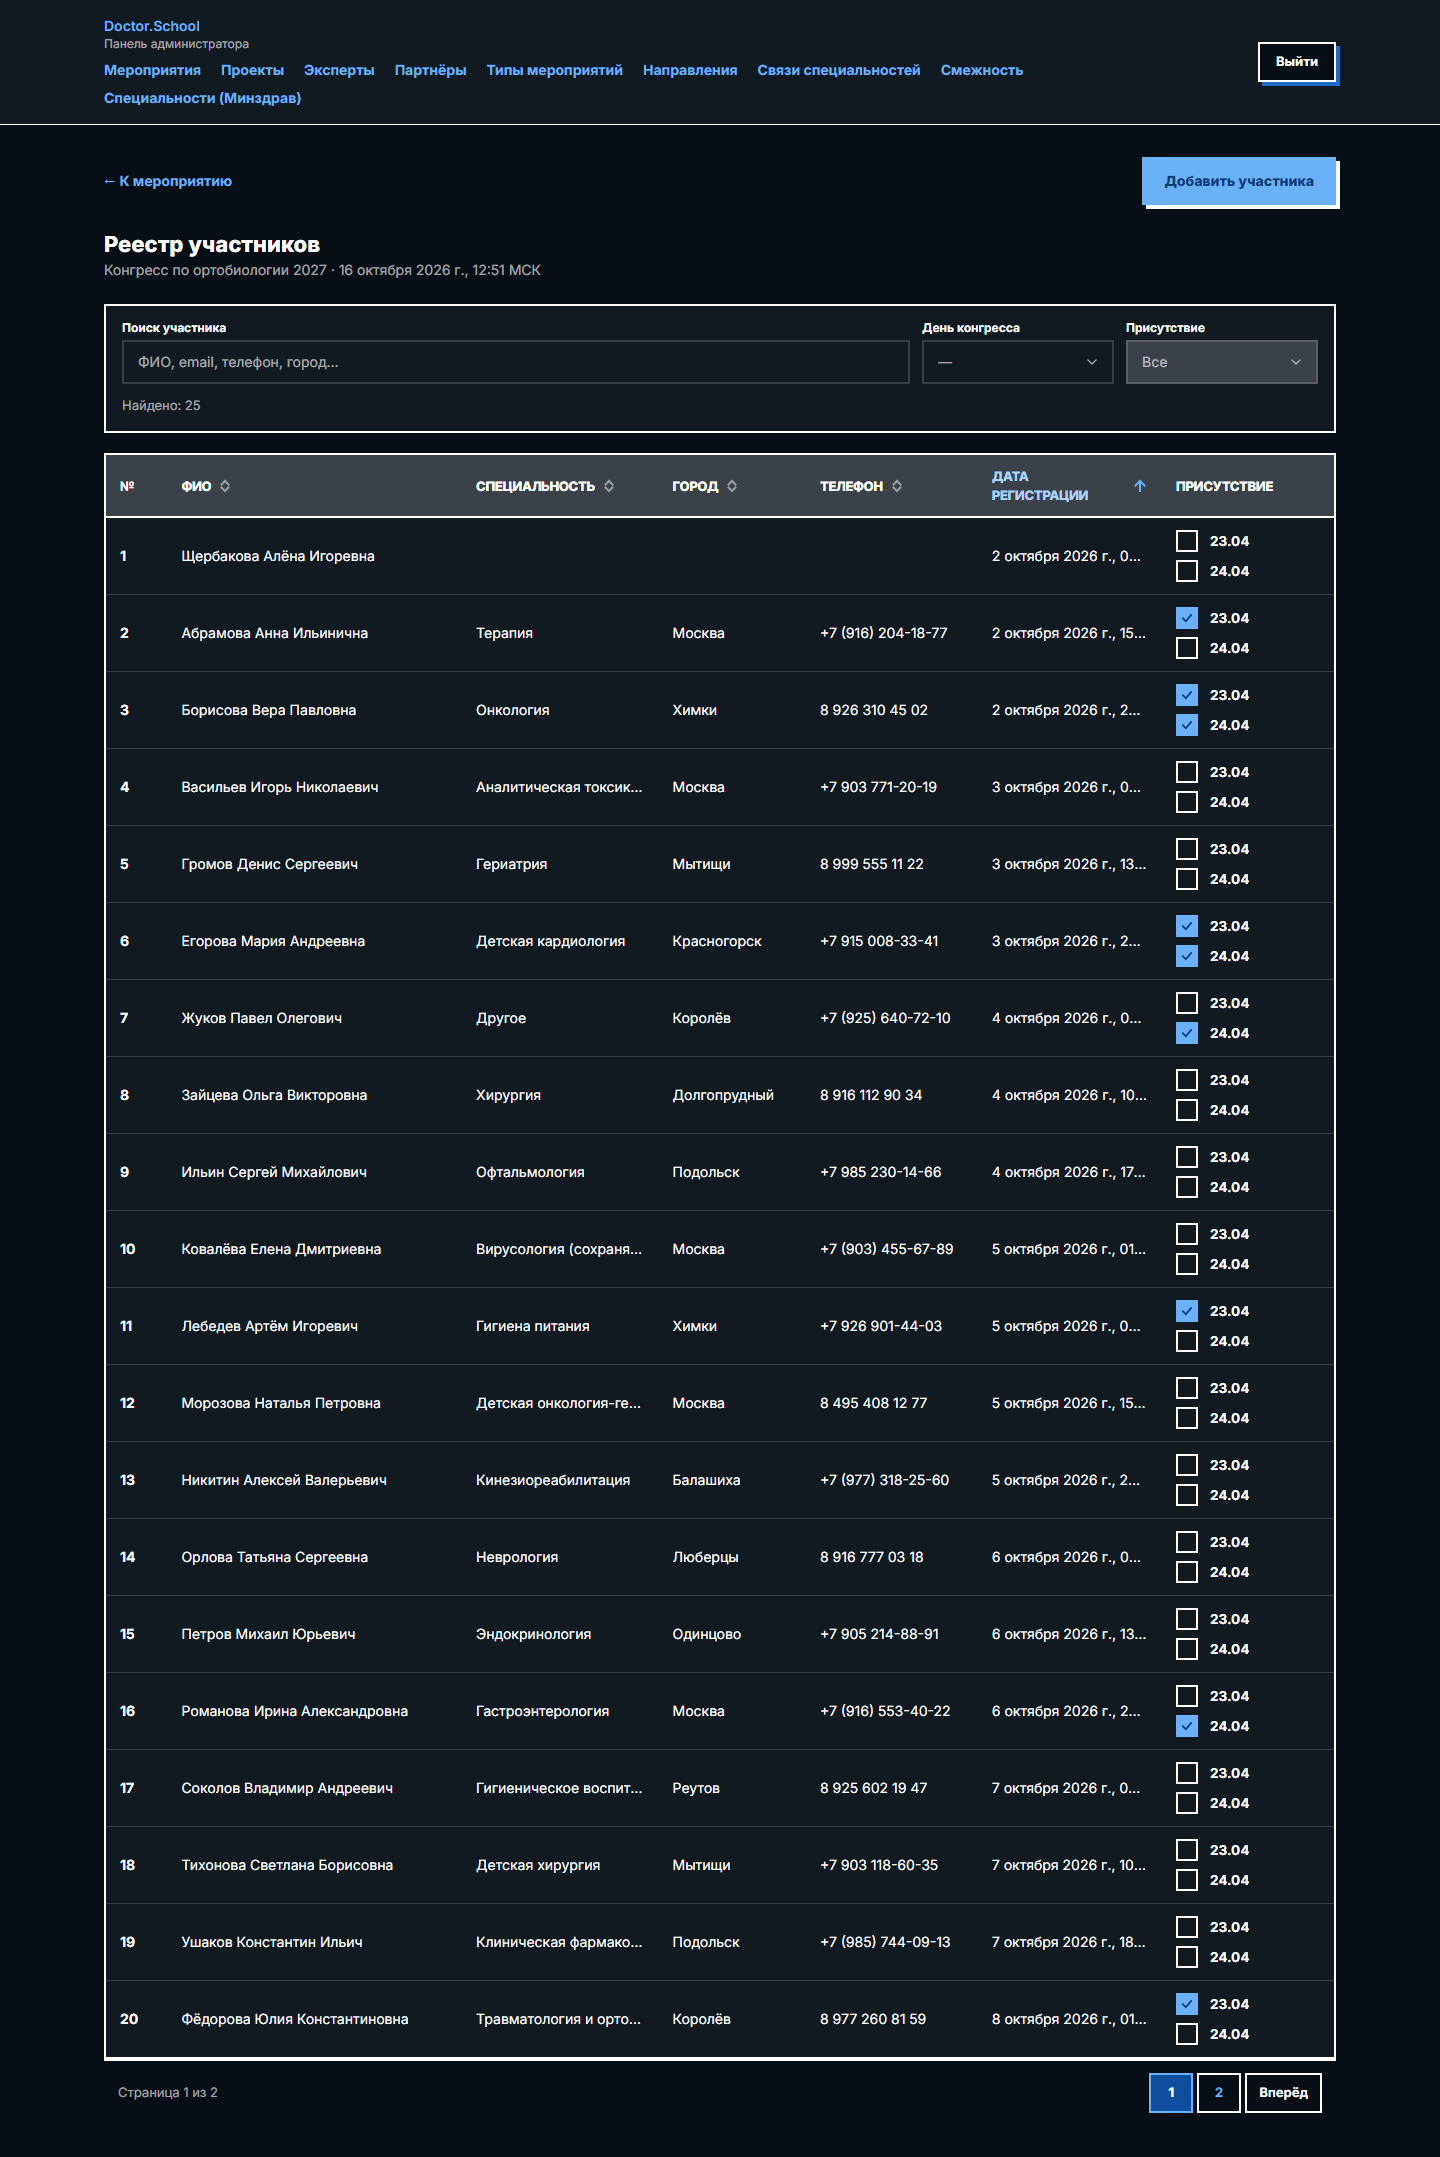
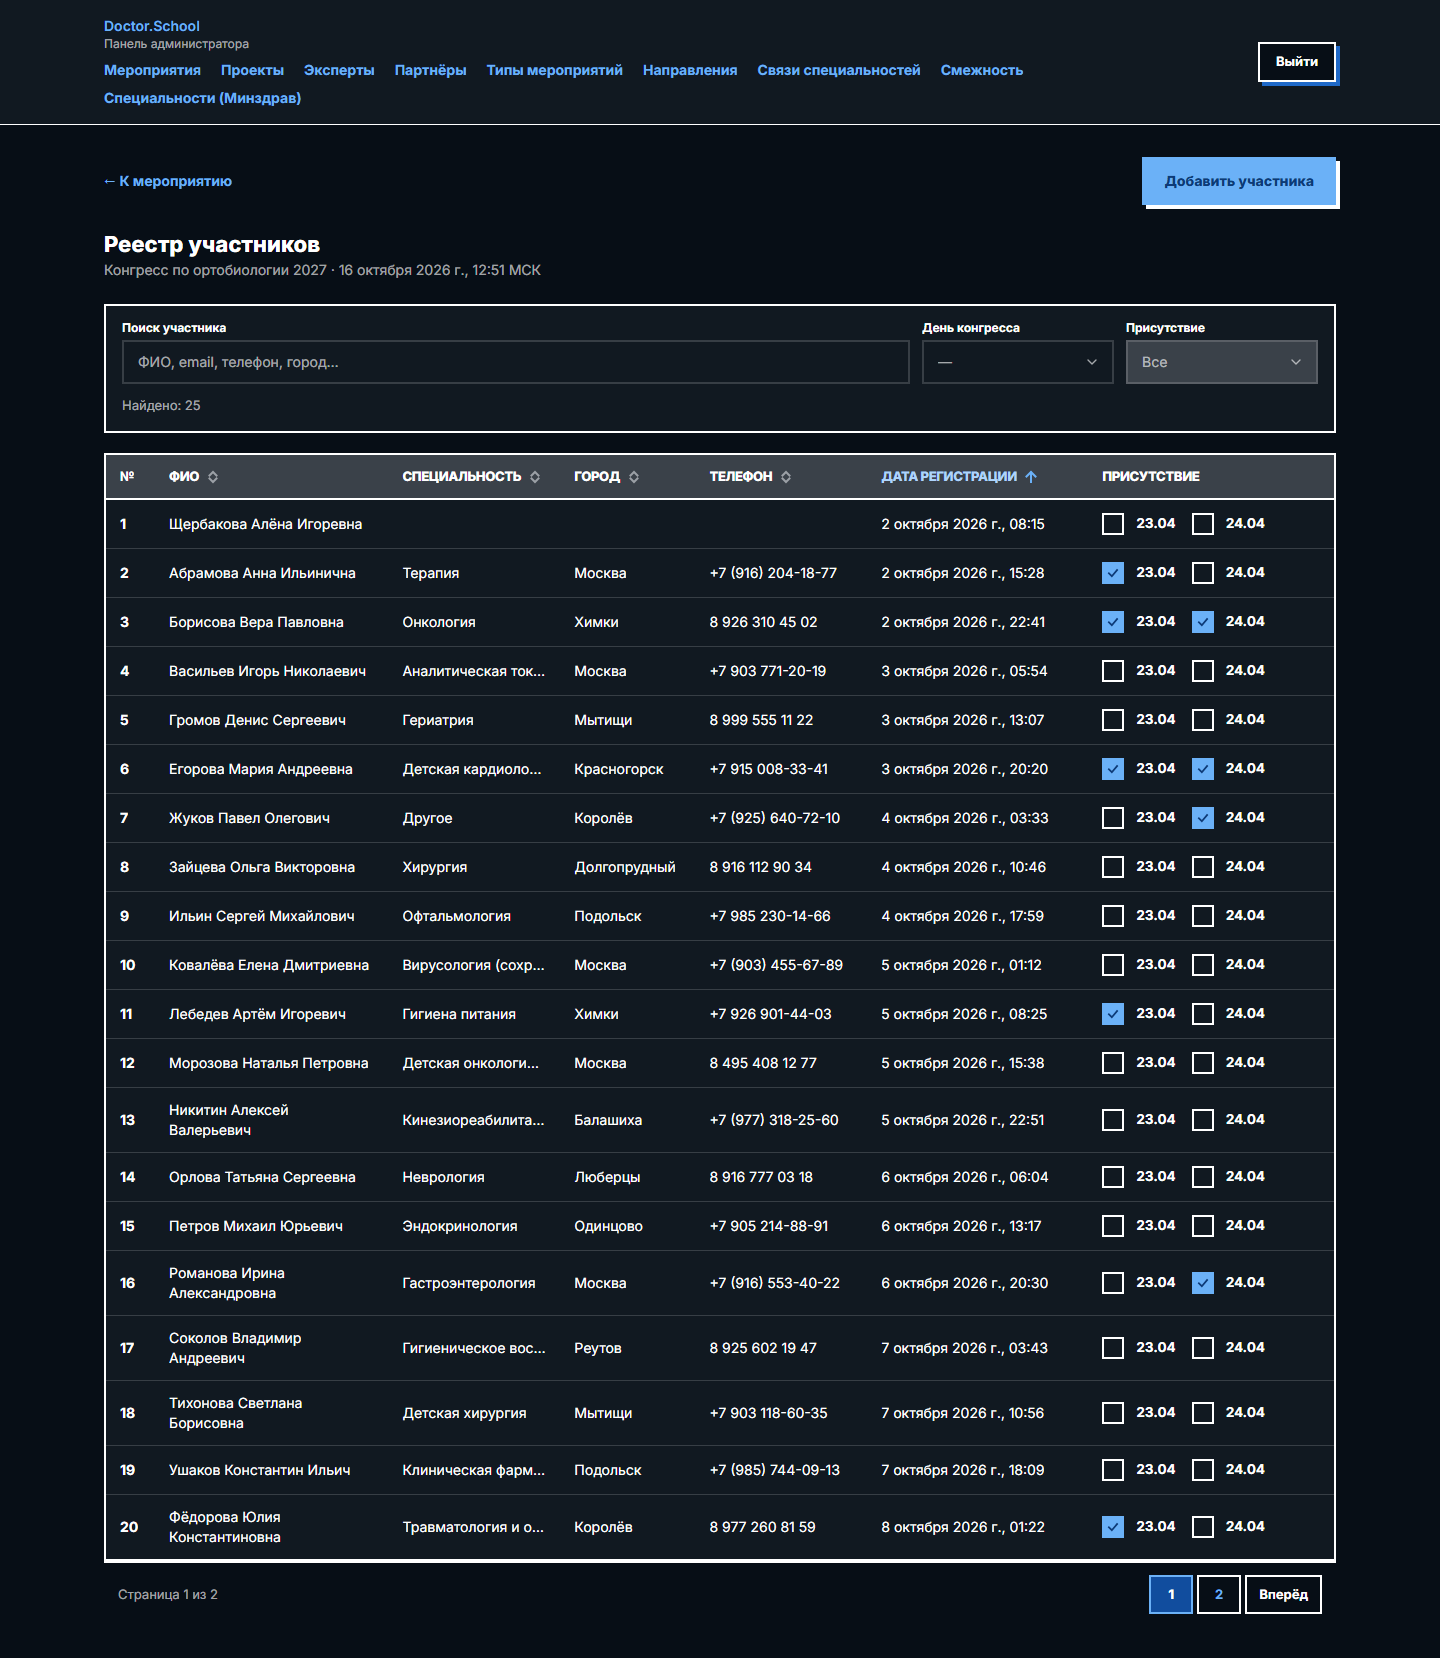
feat(2316): 044 EARS-22 roster columns fit their headers and the whole date
At the desktop frame every sort header, arrow included, sits on one line and
the registration date-time is shown uncut: the column shares are rebalanced
(№ 4, ФИО 19, специальность 14, город 11, телефон 14, дата 18, присутствие 20)
and the ФИО cell wraps a long name in full instead of the date truncating.
The roster and attendance flows pin it at 1440 and 1280; head evidence
re-captured.

Claude-Session: https://claude.ai/code/session_018ChSkY2ZaxQW4pS1J4ZqxC

diff --git a/apps/admin/e2e/support/roster-fit.ts b/apps/admin/e2e/support/roster-fit.ts
@@ -1,0 +1,65 @@
+import { expect, type Locator, type Page } from "@playwright/test";
+
+/** The desktop frames the roster's column shares are set for. */
+export const ROSTER_DESKTOP_WIDTHS = [1440, 1280] as const;
+
+/**
+ * 044 EARS-22/EARS-37 — the roster grid at a desktop frame (#2316): every header,
+ * its sort arrow included, sits on ONE line, and every registration date-time is
+ * shown whole (no ellipsis engaged). The ФИО cell is the one allowed to wrap.
+ */
+export async function expectRosterFits(
+  page: Page,
+  table: Locator,
+): Promise<void> {
+  for (const width of ROSTER_DESKTOP_WIDTHS) {
+    await page.setViewportSize({ width, height: 900 });
+    const headers = await table.locator("thead th").evaluateAll((cells) =>
+      cells.map((cell) => {
+        const box = cell.querySelector("button") ?? cell;
+        // One line = every text fragment of the title shares a top edge.
+        const walker = document.createTreeWalker(box, NodeFilter.SHOW_TEXT);
+        const rects: DOMRect[] = [];
+        for (let node = walker.nextNode(); node; node = walker.nextNode()) {
+          const range = document.createRange();
+          range.selectNodeContents(node);
+          rects.push(
+            ...[...range.getClientRects()].filter((rect) => rect.width > 0),
+          );
+        }
+        const tops = new Set(rects.map((rect) => Math.round(rect.top)));
+        const arrow = box.querySelector("svg")?.getBoundingClientRect();
+        const line = rects[0];
+        return {
+          header: box.textContent ?? "",
+          lines: tops.size,
+          // The arrow sits beside the title, on the same line, never under it.
+          arrowBeside:
+            !arrow || !line
+              ? true
+              : arrow.top < line.bottom && arrow.bottom > line.top,
+        };
+      }),
+    );
+    for (const { header, lines, arrowBeside } of headers) {
+      expect(lines, `«${header}» on one line at ${width}px`).toBe(1);
+      expect(
+        arrowBeside,
+        `«${header}» arrow beside its title at ${width}px`,
+      ).toBe(true);
+    }
+    const cutDates = await table
+      .locator("td:has([data-testid='roster-cell-registeredAt'])")
+      .evaluateAll((cells) =>
+        cells
+          .filter(
+            (cell) =>
+              (cell as HTMLElement).offsetParent !== null &&
+              cell.scrollWidth > cell.clientWidth,
+          )
+          .map((cell) => cell.textContent),
+      );
+    expect(cutDates, `registration dates cut at ${width}px`).toEqual([]);
+  }
+  await page.setViewportSize({ width: 1440, height: 900 });
+}

diff --git a/apps/admin/app/events/[id]/roster/page.tsx b/apps/admin/app/events/[id]/roster/page.tsx
@@ -201,10 +201,12 @@ export default function CongressRosterPage() {
   const column = (
     key: keyof CongressRosterCells,
     width: string,
+    overflow?: DataTableColumn<Row>["overflow"],
   ): DataTableColumn<Row> => ({
     key,
     header: t(`congressRoster.columns.${key}`),
     width,
+    overflow,
     sortKey: rosterSortKeyOf(key, attendanceFilter.day),
     render: (row) => (
       <span data-testid={`roster-cell-${key}`}>{row.cells[key]}</span>
@@ -212,12 +214,17 @@ export default function CongressRosterPage() {
     fullValue: (row) => row.cells[key],
   });
 
+  // The shares are set so that at the desktop frame (≥ 1280) every header —
+  // its sort arrow and «Присутствие · день ДД.ММ» included — stays on one line
+  // and the full registration date-time («28 сентября 2026 г., 00:00») fits
+  // uncut. What gives is the ФИО cell: a long name wraps in full rather than
+  // ellipsing (the date column never truncates).
   const columns: DataTableColumn<Row>[] = [
-    column("fullName", "24%"),
-    column("specialtyName", "16%"),
-    column("city", "12%"),
+    column("fullName", "19%", "wrap"),
+    column("specialtyName", "14%"),
+    column("city", "11%"),
     column("phone", "14%"),
-    column("registeredAt", "15%"),
+    column("registeredAt", "18%"),
     {
       key: "attendance",
       header: attendanceFilter.day
@@ -225,7 +232,7 @@ export default function CongressRosterPage() {
             day: congressDayShortLabel(attendanceFilter.day),
           })
         : t("congressRoster.columns.attendance"),
-      width: "14%",
+      width: "20%",
       sortKey: rosterSortKeyOf("attendance", attendanceFilter.day),
       render: (row) => (
         // Above the row's stretched activation overlay (`DataTable`), so a
@@ -425,7 +432,7 @@ export default function CongressRosterPage() {
             caption={t("congressRoster.tableCaption")}
             record={{
               header: t("congressRoster.columns.number"),
-              width: "5%",
+              width: "4%",
               title: (row) => (
                 <span data-testid={`roster-row-${row.registrationId}`}>
                   {row.number}

diff --git a/apps/admin/e2e/congress-attendance.spec.ts b/apps/admin/e2e/congress-attendance.spec.ts
@@ -11,6 +11,7 @@ import {
 } from "@ds/e2e/admin-events";
 import { registerDoctorThroughPlatform } from "./support/congress-roster";
 import { bindRegistrarToEvent } from "./support/event-grants";
+import { expectRosterFits } from "./support/roster-fit";
 import { visible } from "./support/visible";
 
 /**
@@ -279,6 +280,9 @@ test.describe("044 EARS-34 — attendance per congress day on the roster", () =>
       name: "Присутствие · день 23.04",
       exact: true,
     });
+    // The longest header — the day's — stays on one line with its arrow.
+    await expect(presence).toBeVisible();
+    await expectRosterFits(desk, table);
     await presence.click();
     await expect(desk).toHaveURL(/[?&]sort=presence&dir=asc/);
     await expect(table.locator("thead th").last()).toHaveAttribute(

diff --git a/apps/admin/e2e/congress-roster.spec.ts b/apps/admin/e2e/congress-roster.spec.ts
@@ -7,6 +7,7 @@ import {
   signInAsAdmin,
 } from "@ds/e2e/admin-events";
 import { registerDoctorThroughPlatform } from "./support/congress-roster";
+import { expectRosterFits } from "./support/roster-fit";
 import { visible } from "./support/visible";
 
 /**
@@ -322,6 +323,8 @@ test.describe("044 EARS-21 — the congress roster in admin", () => {
     ).toHaveCount(0);
     await expect(nameCells(page).first()).toHaveText(PEOPLE[0]!);
     await shot(page, "roster-sort-default");
+    // Every header with its arrow on one line; the date-time whole (#2316).
+    await expectRosterFits(page, table);
 
     // A sort change returns to page 1.
     await page.getByRole("button", { name: "Вперёд" }).click();
